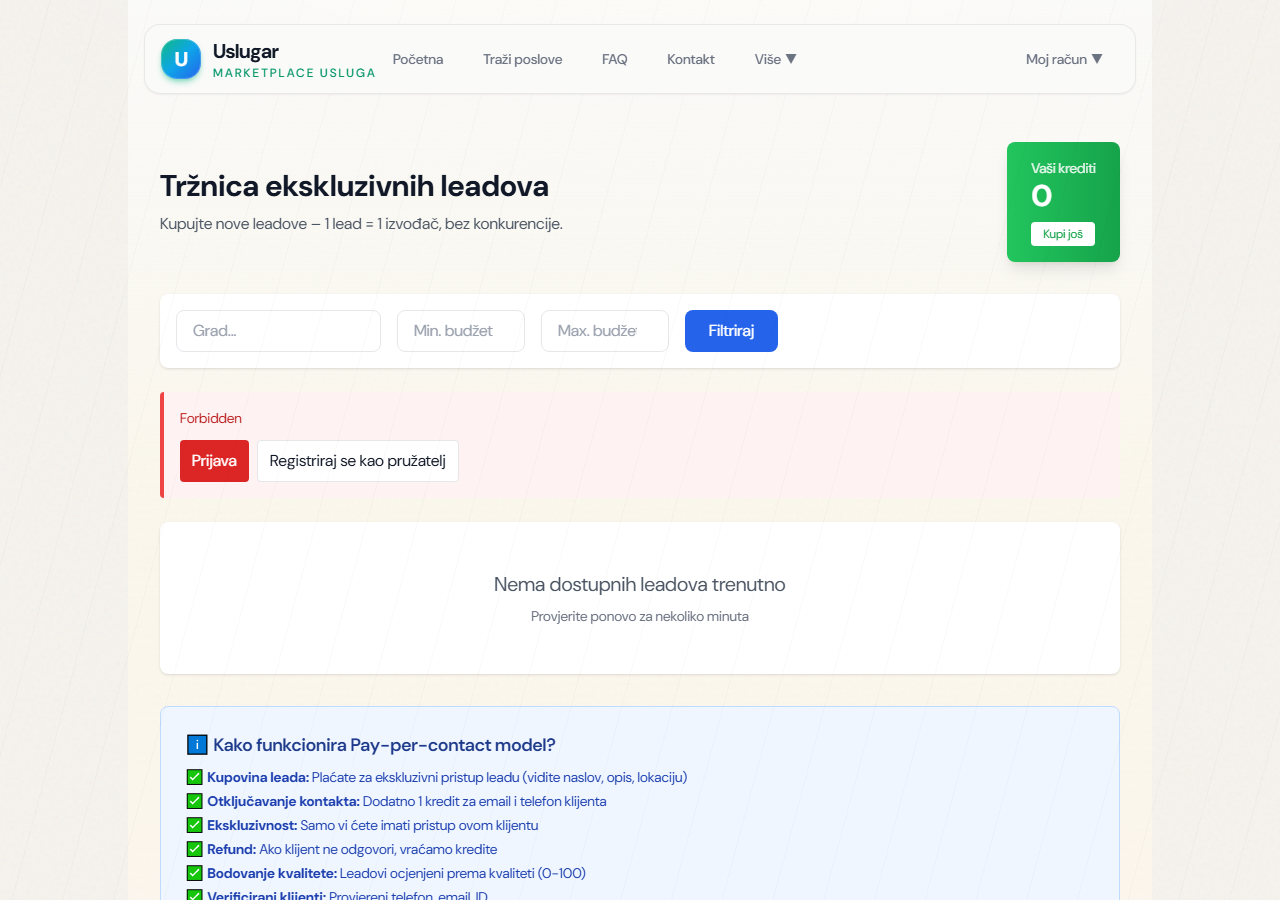
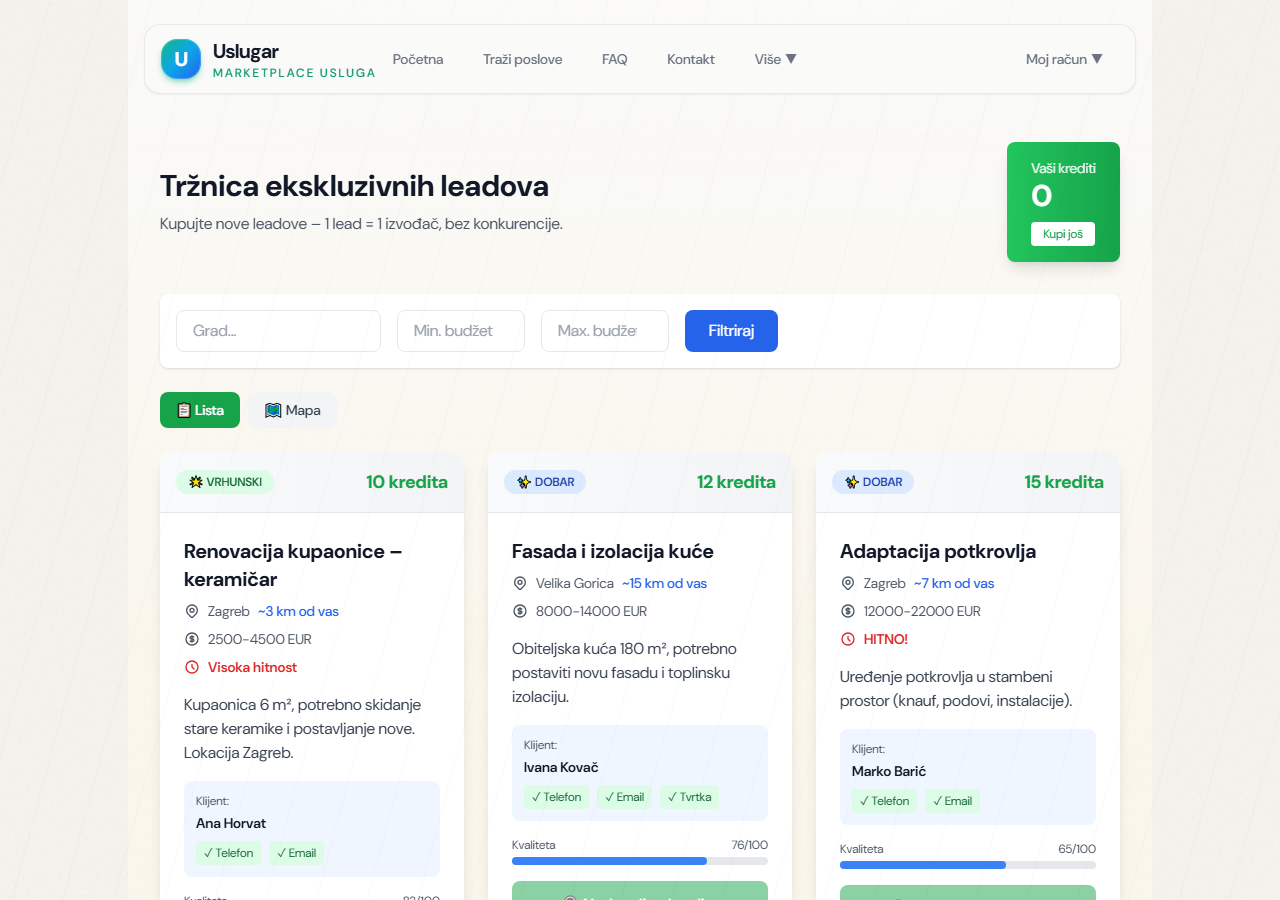
x

diff --git a/Uslugar/frontend/src/pages/LeadMarketplace.jsx b/Uslugar/frontend/src/pages/LeadMarketplace.jsx
@@ -3,6 +3,58 @@ import React, { useState, useEffect } from 'react';
 import { getAvailableLeads, purchaseLead, getCreditsBalance, unlockContact } from '../api/exclusive';
 import LeadsMap from '../components/LeadsMap';
 
+// Demo leadovi za slučaj kada backend vrati 403 (npr. za screenshotove / dokumentaciju u dev okruženju)
+const DEMO_LEADS = [
+  {
+    id: 'demo-1',
+    title: 'Renovacija kupaonice – keramičar',
+    description: 'Kupaonica 6 m², potrebno skidanje stare keramike i postavljanje nove. Lokacija Zagreb.',
+    city: 'Zagreb',
+    budgetMin: 2500,
+    budgetMax: 4500,
+    leadPrice: 10,
+    qualityScore: 82,
+    urgency: 'HIGH',
+    distanceKm: 3,
+    user: {
+      fullName: 'Ana Horvat',
+      clientVerification: { phoneVerified: true, emailVerified: true, companyVerified: false },
+    },
+  },
+  {
+    id: 'demo-2',
+    title: 'Fasada i izolacija kuće',
+    description: 'Obiteljska kuća 180 m², potrebno postaviti novu fasadu i toplinsku izolaciju.',
+    city: 'Velika Gorica',
+    budgetMin: 8000,
+    budgetMax: 14000,
+    leadPrice: 12,
+    qualityScore: 76,
+    urgency: 'NORMAL',
+    distanceKm: 15,
+    user: {
+      fullName: 'Ivana Kovač',
+      clientVerification: { phoneVerified: true, emailVerified: true, companyVerified: true },
+    },
+  },
+  {
+    id: 'demo-3',
+    title: 'Adaptacija potkrovlja',
+    description: 'Uređenje potkrovlja u stambeni prostor (knauf, podovi, instalacije).',
+    city: 'Zagreb',
+    budgetMin: 12000,
+    budgetMax: 22000,
+    leadPrice: 15,
+    qualityScore: 65,
+    urgency: 'URGENT',
+    distanceKm: 7,
+    user: {
+      fullName: 'Marko Barić',
+      clientVerification: { phoneVerified: true, emailVerified: true, companyVerified: false },
+    },
+  },
+];
+
 export default function LeadMarketplace() {
   const [leads, setLeads] = useState([]);
   const [loading, setLoading] = useState(true);
@@ -18,12 +70,6 @@ export default function LeadMarketplace() {
   const [leadsView, setLeadsView] = useState('list'); // 'list' | 'map'
 
   useEffect(() => {
-    const token = localStorage.getItem('token');
-    if (!token) {
-      setLoading(false);
-      setError('Za pristup ekskluzivnim leadovima prijavite se ili registrirajte kao pružatelj usluga.');
-      return;
-    }
     loadLeads();
     loadCredits();
   }, []);
@@ -36,14 +82,27 @@ export default function LeadMarketplace() {
     } catch (err) {
       const status = err?.response?.status;
       const backendError = err?.response?.data?.error;
+      const isScreenshotMode =
+        typeof window !== 'undefined' && window.location.href.includes('screenshotMode=docs');
       if (status === 401) {
-        setError('Nedostaje prijava. Prijavite se ili registrirajte kao pružatelj usluga.');
+        if (isScreenshotMode || import.meta.env.MODE === 'development') {
+          // Dev / screenshot okruženje: pokaži demo leadove umjesto bannera
+          setLeads(DEMO_LEADS);
+          setError('');
+        } else {
+          setError('Nedostaje prijava. Prijavite se ili registrirajte kao pružatelj usluga.');
+        }
       } else if (status === 403) {
-        // Ne prikazuj sirovi "Forbidden" tekst – prikaži razumljivu poruku
-        setError(
-          'Ekskluzivni leadovi su dostupni samo odobrenim pružateljima usluga s aktivnom pretplatom. ' +
-          'Provjerite je li vaš profil odobren i da imate aktivan paket.'
-        );
+        if (isScreenshotMode || import.meta.env.MODE === 'development') {
+          // Dev / screenshot okruženje: pokaži demo leadove
+          setLeads(DEMO_LEADS);
+          setError('');
+        } else {
+          setError(
+            'Ekskluzivni leadovi su dostupni samo odobrenim pružateljima usluga s aktivnom pretplatom. ' +
+            'Provjerite je li vaš profil odobren i da imate aktivan paket.'
+          );
+        }
       } else {
         setError(
           backendError && backendError !== 'Forbidden'

diff --git a/Uslugar/tests/scripts/capture-docs-screenshots.js b/Uslugar/tests/scripts/capture-docs-screenshots.js
@@ -7,22 +7,48 @@
  * Env varijable (opcionalno):
  *   BASE_URL          = https://www.uslugar.eu  (ili http://localhost:5173 za lokalno)
  *   OUT_DIR           = putanja do frontend/public/docs (default: ../../frontend/public/docs)
+ *
+ * Za BASE_URL=localhost prvo u drugom terminalu pokreni: cd frontend && npm run dev
  *   TEST_EMAIL_KORISNIK, TEST_PASSWORD_KORISNIK   = za ulogu korisnik
  *   TEST_EMAIL_PRUVATELJ, TEST_PASSWORD_PRUVATELJ = za ulogu pružatelj
  *   TEST_EMAIL_TIM_CLAN, TEST_PASSWORD_TIM_CLAN   = za ulogu član tima
  *   TEST_EMAIL_DIREKTOR, TEST_PASSWORD_DIREKTOR   = za ulogu direktor
  *
  * Ako nemaš testnih računa, možeš pokrenuti samo javne stranice (bez login*).
+ * Za kredencijale u mapi tests pokreni: . .\scripts\set-screenshot-env.ps1
  */
 
 const { chromium } = require('@playwright/test');
 const path = require('path');
 const fs = require('fs');
+const http = require('http');
+const https = require('https');
 
 const BASE_URL = process.env.BASE_URL || 'https://www.uslugar.eu';
 const OUT_DIR = process.env.OUT_DIR
   ? path.resolve(process.env.OUT_DIR)
   : path.resolve(__dirname, '..', '..', 'frontend', 'public', 'docs');
+
+/** Ako je BASE_URL localhost, provjeri je li server pokrenut; ako ne, ispiši upute i izađi. */
+function checkBaseUrlReachable() {
+  const isLocal = /localhost|127\.0\.0\.1/i.test(BASE_URL);
+  if (!isLocal) return Promise.resolve();
+  const url = new URL(BASE_URL);
+  const client = url.protocol === 'https:' ? https : http;
+  return new Promise((resolve, reject) => {
+    const req = client.get(BASE_URL, (res) => {
+      res.resume();
+      resolve();
+    });
+    req.on('error', (err) => reject(err));
+    req.setTimeout(5000, () => { req.destroy(); reject(new Error('timeout')); });
+  }).catch(() => {
+    console.error('\nFrontend nije dostupan na', BASE_URL);
+    console.error('U drugom terminalu pokreni: cd frontend && npm run dev');
+    console.error('Zatim ponovno: cd tests && npm run screenshots:docs\n');
+    process.exit(1);
+  });
+}
 
 /** Lista screenshotova: filename, hash, role za login (null = javna stranica) */
 const SCREENSHOTS = [
@@ -83,6 +109,8 @@ async function login(page, role) {
 }
 
 async function main() {
+  await checkBaseUrlReachable();
+
   fs.mkdirSync(OUT_DIR, { recursive: true });
   console.log('OUT_DIR:', OUT_DIR);
   console.log('BASE_URL:', BASE_URL);
@@ -110,7 +138,10 @@ async function main() {
         lastRole = null;
       }
 
-      const url = `${BASE_URL}${hash.startsWith('#') ? hash : '#' + hash}`;
+      // Dodaj screenshotMode=docs query param za frontend (prikaz demo leadova u vodiču, bez utjecaja na produkciju)
+      const baseWithoutHash = BASE_URL.split('#')[0];
+      const hashPart = hash.startsWith('#') ? hash : '#' + hash;
+      const url = `${baseWithoutHash}?screenshotMode=docs${hashPart}`;
       await page.goto(url, { waitUntil: 'domcontentloaded', timeout: 20000 });
       await page.waitForTimeout(2000);
 

diff --git a/Uslugar/backend/scripts/capture-docs-screenshots.js b/Uslugar/backend/scripts/capture-docs-screenshots.js
@@ -80,7 +80,10 @@ async function main() {
         lastRole = null;
       }
 
-      const url = `${BASE_URL}${hash.startsWith('#') ? hash : '#' + hash}`;
+      // Dodaj screenshotMode=docs query param za frontend (prikaz demo leadova u vodiču, bez utjecaja na regularan promet)
+      const baseWithoutHash = BASE_URL.split('#')[0];
+      const hashPart = hash.startsWith('#') ? hash : '#' + hash;
+      const url = `${baseWithoutHash}?screenshotMode=docs${hashPart}`;
       await page.goto(url, { waitUntil: 'domcontentloaded', timeout: 20000 });
       await page.waitForTimeout(2000);
 
